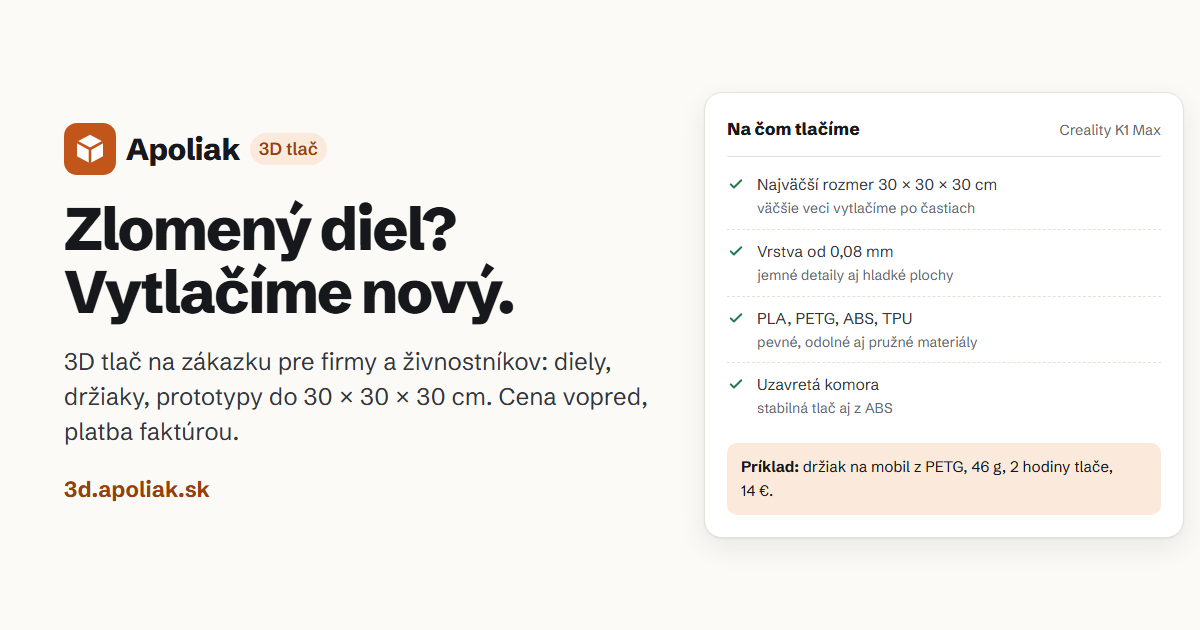
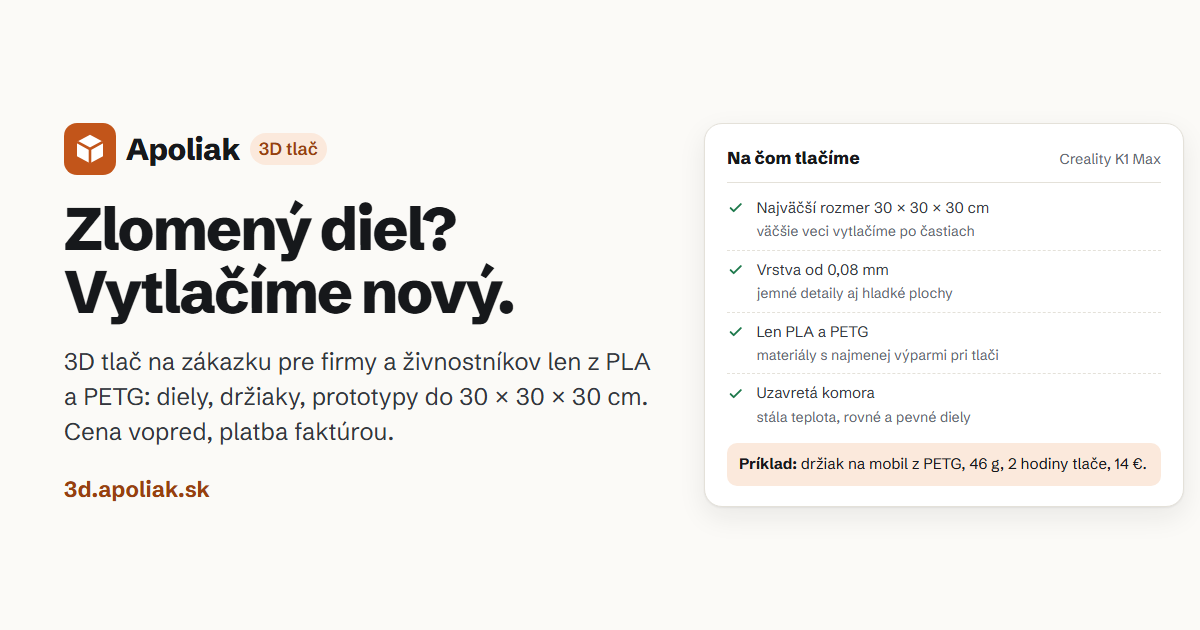
Pätička so živnosťou, úpravy textov

diff --git a/index.html b/index.html
@@ -6,7 +6,7 @@
   <meta name="referrer" content="strict-origin-when-cross-origin">
   <meta name="viewport" content="width=device-width, initial-scale=1, viewport-fit=cover">
   <title>3D tlač na zákazku pre firmy: diely, držiaky, prototypy | Apoliak 3D</title>
-  <meta name="description" content="Vytlačíme náhradné diely, držiaky, kryty a prototypy z PLA, PETG, ABS aj pružného TPU, do veľkosti 30 × 30 × 30 cm. Cenu povieme vopred, platíte faktúrou.">
+  <meta name="description" content="Vytlačíme náhradné diely, držiaky, kryty a prototypy, len zo zdravších materiálov PLA a PETG, do veľkosti 30 × 30 × 30 cm. Cenu povieme vopred, platíte faktúrou.">
   <meta name="theme-color" content="#fbfaf7">
   <meta name="color-scheme" content="light">
   <link rel="canonical" href="https://3d.apoliak.sk/">
@@ -14,7 +14,7 @@
   <meta property="og:locale" content="sk_SK">
   <meta property="og:site_name" content="Apoliak 3D">
   <meta property="og:title" content="Zlomený diel? Vytlačíme nový.">
-  <meta property="og:description" content="3D tlač na zákazku pre firmy a živnostníkov: diely, držiaky, prototypy do 30 × 30 × 30 cm. Cena vopred, platba faktúrou.">
+  <meta property="og:description" content="3D tlač na zákazku pre firmy a živnostníkov len z PLA a PETG: diely, držiaky, prototypy do 30 × 30 × 30 cm. Cena vopred, platba faktúrou.">
   <meta property="og:url" content="https://3d.apoliak.sk/">
   <meta property="og:image" content="https://3d.apoliak.sk/assets/img/og-image.png">
   <meta property="og:image:width" content="1200">
@@ -63,34 +63,34 @@
           <h1>Zlomený diel, chýbajúci držiak alebo prototyp? Vytlačíme ho.</h1>
           <p class="lead">Pošlete 3D model, nákres alebo fotku s&nbsp;rozmermi. Povieme cenu vopred, vytlačíme a&nbsp;odovzdáme osobne v&nbsp;Bratislave a&nbsp;okolí alebo pošleme zásielkou.</p>
           <div class="cta-row"><a class="btn" href="mailto:3d@apoliak.sk?subject=Dopyt%20na%203D%20tla%C4%8D&amp;body=Dobr%C3%BD%20de%C5%88%2C%0A%0Apotrebujeme%20vytla%C4%8Di%C5%A5%3A%0A%0APo%C4%8Det%20kusov%3A%0AMateri%C3%A1l%20alebo%20pou%C5%BEitie%20%28ak%20viete%29%3A%0ATerm%C3%ADn%3A%0A%0AV%20pr%C3%ADlohe%20posielam%20model%2C%20n%C3%A1kres%20alebo%20fotky%20s%20rozmermi.%0A%0AFirma%3A%0AI%C4%8CO%3A%0ATelef%C3%B3n%3A%0A%0A%C4%8Eakujem">Poslať dopyt</a><a class="btn btn--ghost" href="#cennik">Cenník</a></div>
-          <ul class="facts"><li><svg class="icon" aria-hidden="true"><use href="#i-check"/></svg>Do 30 × 30 × 30&nbsp;cm</li><li><svg class="icon" aria-hidden="true"><use href="#i-check"/></svg>Cena vopred</li><li><svg class="icon" aria-hidden="true"><use href="#i-check"/></svg>Platba faktúrou po odovzdaní</li></ul>
+          <ul class="facts"><li><svg class="icon" aria-hidden="true"><use href="#i-check"/></svg>Len zdravšie materiály PLA a&nbsp;PETG</li><li><svg class="icon" aria-hidden="true"><use href="#i-check"/></svg>Do 30 × 30 × 30&nbsp;cm</li><li><svg class="icon" aria-hidden="true"><use href="#i-check"/></svg>Cena vopred, platba faktúrou</li></ul>
         </div>
         <div><div class="panel" role="img" aria-label="Parametre 3D tlače">
             <div class="panel-head"><span class="panel-title">Na čom tlačíme</span><span class="panel-sub">Creality K1 Max</span></div>
             <ul class="rows">
               <li class="is-ok"><svg class="icon" aria-hidden="true"><use href="#i-check"/></svg><div>Najväčší rozmer 30&nbsp;×&nbsp;30&nbsp;×&nbsp;30&nbsp;cm<small>väčšie veci vytlačíme po častiach</small></div></li>
               <li class="is-ok"><svg class="icon" aria-hidden="true"><use href="#i-check"/></svg><div>Vrstva od 0,08&nbsp;mm<small>jemné detaily aj hladké plochy</small></div></li>
-              <li class="is-ok"><svg class="icon" aria-hidden="true"><use href="#i-check"/></svg><div>PLA, PETG, ABS, TPU<small>pevné, odolné aj pružné materiály</small></div></li>
-              <li class="is-ok"><svg class="icon" aria-hidden="true"><use href="#i-check"/></svg><div>Uzavretá komora<small>stabilná tlač aj z&nbsp;ABS</small></div></li>
+              <li class="is-ok"><svg class="icon" aria-hidden="true"><use href="#i-check"/></svg><div>Len PLA a PETG<small>materiály s&nbsp;najmenej výparmi pri tlači</small></div></li>
+              <li class="is-ok"><svg class="icon" aria-hidden="true"><use href="#i-check"/></svg><div>Uzavretá komora<small>stála teplota, rovné a&nbsp;pevné diely</small></div></li>
             </ul>
             <div class="panel-foot"><strong>Príklad:</strong> držiak na mobil z&nbsp;PETG, 46&nbsp;g, 2&nbsp;hodiny tlače, 14&nbsp;€.</div>
           </div></div>
       </div>
     </section>
     <section class="section" id="co" aria-labelledby="co-nadpis">
-      <div class="wrap"><div class="section-head"><h2 id="co-nadpis">Čo najčastejšie tlačíme</h2><p>Veci, ktoré sa nedajú kúpiť, alebo by ste na ne čakali týždne.</p></div><div class="cards cards--4"><article class="card"><h3>Náhradné diely</h3><p>Zlomený klip, krytka, koliesko, úchytka či gombík. Podľa pôvodného dielu navrhneme a&nbsp;vytlačíme nový.</p></article><article class="card"><h3>Držiaky a&nbsp;organizéry</h3><p>Na náradie, káble, tablety, displeje, do dielne aj do auta. Presne na vaše rozmery.</p></article><article class="card"><h3>Prototypy</h3><p>Overíte tvar a&nbsp;rozmery skôr, ako zadáte drahú výrobu. Upravenú verziu vytlačíme aj na druhý deň.</p></article><article class="card"><h3>Kusy s&nbsp;logom</h3><p>Stojany na vizitky, menovky, kľúčenky a&nbsp;darčeky pre klientov s&nbsp;vaším logom.</p></article></div></div>
+      <div class="wrap"><div class="section-head"><h2 id="co-nadpis">Čo najčastejšie tlačíme</h2><p>Veci, ktoré sa nedajú kúpiť, alebo by ste na ne čakali týždne.</p></div><div class="cards cards--4"><article class="card"><h3>Náhradné diely</h3><p>Zlomený klip, krytka, koliesko, úchytka či gombík. Podľa pôvodného dielu navrhneme a&nbsp;vytlačíme nový.</p></article><article class="card"><h3>Držiaky a&nbsp;organizéry</h3><p>Na náradie, káble, tablety, displeje, do dielne aj do kancelárie. Presne na vaše rozmery.</p></article><article class="card"><h3>Prototypy</h3><p>Overíte tvar a&nbsp;rozmery skôr, ako zadáte drahú výrobu. Upravenú verziu vytlačíme aj na druhý deň.</p></article><article class="card"><h3>Kusy s&nbsp;logom</h3><p>Stojany na vizitky, menovky, kľúčenky a&nbsp;darčeky pre klientov s&nbsp;vaším logom.</p></article></div></div>
     </section>
     <section class="section section--alt" id="materialy" aria-labelledby="materialy-nadpis">
-      <div class="wrap"><div class="section-head"><h2 id="materialy-nadpis">Materiály</h2><p>Materiál vyberieme podľa toho, kde bude diel slúžiť.</p></div><div class="cards cards--4"><article class="card"><h3>PLA</h3><p>Na bežné veci do interiéru: držiaky, kryty, modely, darčeky. Najlacnejší a&nbsp;s&nbsp;najväčším výberom farieb. Mäkne nad 55&nbsp;°C.</p></article><article class="card"><h3>PETG</h3><p>Odolnejší a&nbsp;pružnejší než PLA, znesie vlhko aj pobyt vonku. Na diely, ktoré niečo vydržia.</p></article><article class="card"><h3>ABS</h3><p>Do tepla: do auta, k&nbsp;strojom, do dielne. Tvrdý a&nbsp;odolný, v&nbsp;lete v&nbsp;aute sa nezdeformuje.</p></article><article class="card"><h3>TPU</h3><p>Pružný ako guma: tesnenia, nárazníky, protišmykové podložky, puzdrá.</p></article></div><div class="callout"><svg class="icon" aria-hidden="true"><use href="#i-warn"/></svg><div><h3>Na čo 3D tlač nepoužívame</h3><p>Netlačíme diely, od ktorých závisí bezpečnosť ľudí, napríklad časti bŕzd, nosné prvky či ochranné pomôcky, ani diely do styku s&nbsp;potravinami. Pri takých veciach odporučíme inú výrobu.</p></div></div></div>
+      <div class="wrap"><div class="section-head"><h2 id="materialy-nadpis">Tlačíme len zo zdravších materiálov</h2><p>Používame iba PLA a&nbsp;PETG. Pri tlači uvoľňujú najmenej výparov zo všetkých bežných materiálov, takže diel s&nbsp;pokojom položíte na stôl v&nbsp;kancelárii aj v&nbsp;dielni.</p></div><div class="cards"><article class="card"><h3>PLA</h3><p>Vyrába sa z&nbsp;rastlinného škrobu, napríklad z&nbsp;kukurice. Na bežné veci do interiéru: držiaky, kryty, modely, darčeky. Má najväčší výber farieb a&nbsp;mäkne nad 55&nbsp;°C.</p></article><article class="card"><h3>PETG</h3><p>Príbuzný materiálu PET, z&nbsp;ktorého sú fľaše. Odolnejší a&nbsp;pružnejší než PLA, znesie vlhko, pobyt vonku aj teplo do zhruba 70&nbsp;°C.</p></article><article class="card"><h3>ABS ani ASA netlačíme</h3><p>Pri ich tlači uniká styrén a&nbsp;jemné častice, ktoré do vzduchu, čo dýchame, nepatria. Diel do vyšších teplôt vyriešime z&nbsp;PETG alebo vám odporučíme inú výrobu.</p></article></div><div class="callout"><svg class="icon" aria-hidden="true"><use href="#i-warn"/></svg><div><h3>Na čo 3D tlač nepoužívame</h3><p>Netlačíme diely, od ktorých závisí bezpečnosť ľudí, napríklad časti bŕzd, nosné prvky či ochranné pomôcky, ani diely do styku s&nbsp;potravinami. Pri takých veciach odporučíme inú výrobu.</p></div></div></div>
     </section>
     <section class="section" id="cennik" aria-labelledby="cennik-nadpis">
-      <div class="wrap"><div class="section-head"><h2 id="cennik-nadpis">Cenník</h2><p>Presnú cenu povieme vopred podľa modelu. Pre predstavu:</p></div><div class="prices"><article class="price"><div class="price-name">Malý diel</div><div class="price-amount">od 12&nbsp;€ <span class="price-unit">za kus</span></div><p class="price-note">do 50&nbsp;g, napríklad klip, krytka, držiak</p><ul class="checks"><li><svg class="icon" aria-hidden="true"><use href="#i-check"/></svg><span>Tlač z&nbsp;PLA alebo PETG</span></li><li><svg class="icon" aria-hidden="true"><use href="#i-check"/></svg><span>Odstránenie podpier a&nbsp;začistenie</span></li><li><svg class="icon" aria-hidden="true"><use href="#i-check"/></svg><span>Hotové spravidla do 3&nbsp;pracovných dní</span></li></ul><a class="btn btn--ghost" href="mailto:3d@apoliak.sk?subject=Dopyt%20na%203D%20tla%C4%8D&amp;body=Dobr%C3%BD%20de%C5%88%2C%0A%0Apotrebujeme%20vytla%C4%8Di%C5%A5%3A%0A%0APo%C4%8Det%20kusov%3A%0AMateri%C3%A1l%20alebo%20pou%C5%BEitie%20%28ak%20viete%29%3A%0ATerm%C3%ADn%3A%0A%0AV%20pr%C3%ADlohe%20posielam%20model%2C%20n%C3%A1kres%20alebo%20fotky%20s%20rozmermi.%0A%0AFirma%3A%0AI%C4%8CO%3A%0ATelef%C3%B3n%3A%0A%0A%C4%8Eakujem">Poslať dopyt</a></article><article class="price price--main"><div class="price-name">Väčší diel</div><div class="price-amount">od 25&nbsp;€ <span class="price-unit">za kus</span></div><p class="price-note">do 200&nbsp;g, napríklad kryt, organizér, model</p><ul class="checks"><li><svg class="icon" aria-hidden="true"><use href="#i-check"/></svg><span>Všetky materiály vrátane ABS a&nbsp;TPU</span></li><li><svg class="icon" aria-hidden="true"><use href="#i-check"/></svg><span>Skúšobný kus pri presných dieloch</span></li><li><svg class="icon" aria-hidden="true"><use href="#i-check"/></svg><span>Hotové spravidla do 5&nbsp;pracovných dní</span></li></ul><a class="btn" href="mailto:3d@apoliak.sk?subject=Dopyt%20na%203D%20tla%C4%8D&amp;body=Dobr%C3%BD%20de%C5%88%2C%0A%0Apotrebujeme%20vytla%C4%8Di%C5%A5%3A%0A%0APo%C4%8Det%20kusov%3A%0AMateri%C3%A1l%20alebo%20pou%C5%BEitie%20%28ak%20viete%29%3A%0ATerm%C3%ADn%3A%0A%0AV%20pr%C3%ADlohe%20posielam%20model%2C%20n%C3%A1kres%20alebo%20fotky%20s%20rozmermi.%0A%0AFirma%3A%0AI%C4%8CO%3A%0ATelef%C3%B3n%3A%0A%0A%C4%8Eakujem">Poslať dopyt</a></article><article class="price"><div class="price-name">Návrh 3D modelu</div><div class="price-amount">25&nbsp;€ <span class="price-unit">za hodinu</span></div><p class="price-note">keď máte len diel, nákres alebo fotku</p><ul class="checks"><li><svg class="icon" aria-hidden="true"><use href="#i-check"/></svg><span>Model podľa pôvodného dielu alebo nákresu</span></li><li><svg class="icon" aria-hidden="true"><use href="#i-check"/></svg><span>Bežný diel zaberie hodinu až dve</span></li><li><svg class="icon" aria-hidden="true"><use href="#i-check"/></svg><span>Model dostanete aj ako súbor</span></li></ul><a class="btn btn--ghost" href="mailto:3d@apoliak.sk?subject=Dopyt%20na%203D%20tla%C4%8D&amp;body=Dobr%C3%BD%20de%C5%88%2C%0A%0Apotrebujeme%20vytla%C4%8Di%C5%A5%3A%0A%0APo%C4%8Det%20kusov%3A%0AMateri%C3%A1l%20alebo%20pou%C5%BEitie%20%28ak%20viete%29%3A%0ATerm%C3%ADn%3A%0A%0AV%20pr%C3%ADlohe%20posielam%20model%2C%20n%C3%A1kres%20alebo%20fotky%20s%20rozmermi.%0A%0AFirma%3A%0AI%C4%8CO%3A%0ATelef%C3%B3n%3A%0A%0A%C4%8Eakujem">Poslať dopyt</a></article></div><p class="prices-after">Ceny sú konečné, nie sme platiteľmi DPH. Pri sérii od 10 kusov je cena za kus nižšia. Osobne odovzdáme v&nbsp;Bratislave, Senci a&nbsp;okolí po dohode, inak pošleme zásielkou za cenu prepravcu. Platíte faktúrou po odovzdaní, pri zákazke nad 100&nbsp;€ polovicu vopred.</p></div>
+      <div class="wrap"><div class="section-head"><h2 id="cennik-nadpis">Cenník</h2><p>Presnú cenu povieme vopred podľa modelu. Pre predstavu:</p></div><div class="prices"><article class="price"><div class="price-name">Malý diel</div><div class="price-amount">od 12&nbsp;€ <span class="price-unit">za kus</span></div><p class="price-note">do 50&nbsp;g, napríklad klip, krytka, držiak</p><ul class="checks"><li><svg class="icon" aria-hidden="true"><use href="#i-check"/></svg><span>Tlač z&nbsp;PLA alebo PETG</span></li><li><svg class="icon" aria-hidden="true"><use href="#i-check"/></svg><span>Odstránenie podpier a&nbsp;začistenie</span></li><li><svg class="icon" aria-hidden="true"><use href="#i-check"/></svg><span>Hotové spravidla do 3&nbsp;pracovných dní</span></li></ul><a class="btn btn--ghost" href="mailto:3d@apoliak.sk?subject=Dopyt%20na%203D%20tla%C4%8D&amp;body=Dobr%C3%BD%20de%C5%88%2C%0A%0Apotrebujeme%20vytla%C4%8Di%C5%A5%3A%0A%0APo%C4%8Det%20kusov%3A%0AMateri%C3%A1l%20alebo%20pou%C5%BEitie%20%28ak%20viete%29%3A%0ATerm%C3%ADn%3A%0A%0AV%20pr%C3%ADlohe%20posielam%20model%2C%20n%C3%A1kres%20alebo%20fotky%20s%20rozmermi.%0A%0AFirma%3A%0AI%C4%8CO%3A%0ATelef%C3%B3n%3A%0A%0A%C4%8Eakujem">Poslať dopyt</a></article><article class="price price--main"><div class="price-name">Väčší diel</div><div class="price-amount">od 25&nbsp;€ <span class="price-unit">za kus</span></div><p class="price-note">do 200&nbsp;g, napríklad kryt, organizér, model</p><ul class="checks"><li><svg class="icon" aria-hidden="true"><use href="#i-check"/></svg><span>PLA alebo PETG podľa toho, kde bude diel slúžiť</span></li><li><svg class="icon" aria-hidden="true"><use href="#i-check"/></svg><span>Skúšobný kus pri presných dieloch</span></li><li><svg class="icon" aria-hidden="true"><use href="#i-check"/></svg><span>Hotové spravidla do 5&nbsp;pracovných dní</span></li></ul><a class="btn" href="mailto:3d@apoliak.sk?subject=Dopyt%20na%203D%20tla%C4%8D&amp;body=Dobr%C3%BD%20de%C5%88%2C%0A%0Apotrebujeme%20vytla%C4%8Di%C5%A5%3A%0A%0APo%C4%8Det%20kusov%3A%0AMateri%C3%A1l%20alebo%20pou%C5%BEitie%20%28ak%20viete%29%3A%0ATerm%C3%ADn%3A%0A%0AV%20pr%C3%ADlohe%20posielam%20model%2C%20n%C3%A1kres%20alebo%20fotky%20s%20rozmermi.%0A%0AFirma%3A%0AI%C4%8CO%3A%0ATelef%C3%B3n%3A%0A%0A%C4%8Eakujem">Poslať dopyt</a></article><article class="price"><div class="price-name">Návrh 3D modelu</div><div class="price-amount">25&nbsp;€ <span class="price-unit">za hodinu</span></div><p class="price-note">keď máte len diel, nákres alebo fotku</p><ul class="checks"><li><svg class="icon" aria-hidden="true"><use href="#i-check"/></svg><span>Model podľa pôvodného dielu alebo nákresu</span></li><li><svg class="icon" aria-hidden="true"><use href="#i-check"/></svg><span>Bežný diel zaberie hodinu až dve</span></li><li><svg class="icon" aria-hidden="true"><use href="#i-check"/></svg><span>Model dostanete aj ako súbor</span></li></ul><a class="btn btn--ghost" href="mailto:3d@apoliak.sk?subject=Dopyt%20na%203D%20tla%C4%8D&amp;body=Dobr%C3%BD%20de%C5%88%2C%0A%0Apotrebujeme%20vytla%C4%8Di%C5%A5%3A%0A%0APo%C4%8Det%20kusov%3A%0AMateri%C3%A1l%20alebo%20pou%C5%BEitie%20%28ak%20viete%29%3A%0ATerm%C3%ADn%3A%0A%0AV%20pr%C3%ADlohe%20posielam%20model%2C%20n%C3%A1kres%20alebo%20fotky%20s%20rozmermi.%0A%0AFirma%3A%0AI%C4%8CO%3A%0ATelef%C3%B3n%3A%0A%0A%C4%8Eakujem">Poslať dopyt</a></article></div><p class="prices-after">Ceny sú konečné, nie sme platiteľmi DPH. Pri sérii od 10 kusov je cena za kus nižšia. Osobne odovzdáme v&nbsp;Bratislave, Senci a&nbsp;okolí po dohode, inak pošleme zásielkou za cenu prepravcu. Platíte faktúrou po odovzdaní, pri zákazke nad 100&nbsp;€ polovicu vopred.</p></div>
     </section>
     <section class="section section--alt" id="postup" aria-labelledby="postup-nadpis">
       <div class="wrap"><div class="section-head"><h2 id="postup-nadpis">Ako to prebieha</h2></div><ol class="steps"><li><h3>Pošlete podklady</h3><p>3D model (STL, 3MF, STEP), nákres alebo fotky dielu z&nbsp;viacerých strán s&nbsp;pravítkom a&nbsp;rozmermi.</p></li><li><h3>Dostanete ponuku</h3><p>Do jedného pracovného dňa: cena, materiál, farba a&nbsp;termín.</p></li><li><h3>Vytlačíme</h3><p>Bežné diely do 3 až 5&nbsp;pracovných dní. Pri presných dieloch najprv skúšobný kus.</p></li><li><h3>Odovzdáme</h3><p>Osobne v&nbsp;Bratislave a&nbsp;okolí alebo zásielkou. Faktúru pošleme spolu s&nbsp;dielom.</p></li></ol></div>
     </section>
     <section class="section" id="otazky" aria-labelledby="otazky-nadpis">
-      <div class="wrap"><div class="section-head"><h2 id="otazky-nadpis">Časté otázky</h2></div><div class="faq"><details><summary>Nemám 3D model, len pokazený diel.</summary><div><p>Stačí. Diel odfoťte z&nbsp;viacerých strán s&nbsp;pravítkom alebo nám ho dajte a&nbsp;odmeriame ho. Model navrhneme za 25&nbsp;€ za hodinu, bežný diel zaberie hodinu až dve.</p></div></details><details><summary>Ako presné sú vytlačené diely?</summary><div><p>Zvyčajne na desatiny milimetra. Pri dieloch, ktoré musia presne zapadnúť, najprv vytlačíme skúšobný kus a&nbsp;podľa neho model doladíme.</p></div></details><details><summary>Aké veľké veci viete vytlačiť?</summary><div><p>Jeden kus do 30 × 30 × 30&nbsp;cm. Väčšie veci rozdelíme na časti a&nbsp;spojíme.</p></div></details><details><summary>Aké farby máte?</summary><div><p>Bežne čiernu, bielu, sivú a&nbsp;niekoľko ďalších farieb. Ak potrebujete konkrétny odtieň, materiál objednáme a&nbsp;termín sa predĺži o&nbsp;pár dní.</p></div></details><details><summary>Tlačíte aj pre ľudí, nielen pre firmy?</summary><div><p>Táto ponuka je pre firmy a&nbsp;živnostníkov, fakturujeme na IČO.</p></div></details><details><summary>Ako zaplatím?</summary><div><p>Faktúrou, prevodom na účet, až po odovzdaní dielu. Pri zákazke nad 100&nbsp;€ platíte polovicu vopred.</p></div></details></div></div>
+      <div class="wrap"><div class="section-head"><h2 id="otazky-nadpis">Časté otázky</h2></div><div class="faq"><details><summary>Nemám 3D model, len pokazený diel.</summary><div><p>Stačí. Diel odfoťte z&nbsp;viacerých strán s&nbsp;pravítkom alebo nám ho dajte a&nbsp;odmeriame ho. Model navrhneme za 25&nbsp;€ za hodinu, bežný diel zaberie hodinu až dve.</p></div></details><details><summary>Ako presné sú vytlačené diely?</summary><div><p>Zvyčajne na desatiny milimetra. Pri dieloch, ktoré musia presne zapadnúť, najprv vytlačíme skúšobný kus a&nbsp;podľa neho model doladíme.</p></div></details><details><summary>Prečo tlačíte len z&nbsp;PLA a&nbsp;PETG?</summary><div><p>Pretože pri tlači uvoľňujú najmenej výparov. ABS a&nbsp;ASA pri tlači púšťajú styrén, preto ich nepoužívame. Na väčšinu dielov PLA alebo PETG úplne stačí a&nbsp;diel do tepla vyriešime z&nbsp;PETG.</p></div></details><details><summary>Aké veľké veci viete vytlačiť?</summary><div><p>Jeden kus do 30 × 30 × 30&nbsp;cm. Väčšie veci rozdelíme na časti a&nbsp;spojíme.</p></div></details><details><summary>Aké farby máte?</summary><div><p>Bežne čiernu, bielu, sivú a&nbsp;niekoľko ďalších farieb. Ak potrebujete konkrétny odtieň, materiál objednáme a&nbsp;termín sa predĺži o&nbsp;pár dní.</p></div></details><details><summary>Tlačíte aj pre ľudí, nielen pre firmy?</summary><div><p>Táto ponuka je pre firmy a&nbsp;živnostníkov, fakturujeme na IČO.</p></div></details><details><summary>Ako zaplatím?</summary><div><p>Faktúrou, prevodom na účet, až po odovzdaní dielu. Pri zákazke nad 100&nbsp;€ platíte polovicu vopred.</p></div></details></div></div>
     </section>
     <section class="section section--alt" id="kontakt" aria-labelledby="kontakt-nadpis">
       <div class="wrap contact">
@@ -112,7 +112,8 @@
   <footer class="site-footer">
     <div class="wrap footer-grid">
       <div>
-        <p>© <span data-year>2026</span> Apoliak, Bratislava. IČO 57&nbsp;990&nbsp;883. Nie sme platiteľmi DPH.</p>
+        <p>© <span data-year>2026</span> Apoliak</p>
+        <p>Apoliak, podnikajúca fyzická osoba pôsobiaca v&nbsp;Bratislave, IČO 57&nbsp;990&nbsp;883, zapísaná v&nbsp;živnostenskom registri Okresného úradu Senec, č. 140-39176. Nie sme platiteľmi DPH.</p>
         <p><a href="mailto:3d@apoliak.sk">3d@apoliak.sk</a> · <a href="tel:+421902464022">0902 464 022</a></p>
         <p><a href="obchodne-podmienky.html">Obchodné podmienky</a> · <a href="ochrana-osobnych-udajov.html">Ochrana osobných údajov</a></p>
         

diff --git a/obchodne-podmienky.html b/obchodne-podmienky.html
@@ -39,7 +39,7 @@
       <h2>2. Dopyt a uzavretie zmluvy</h2><ol><li>Záujemca môže poskytovateľa kontaktovať <span class="nb">e-mailom</span> alebo telefonicky. Dopyt je nezáväzný, nie je objednávkou.</li><li>Zmluva je uzavretá, keď poskytovateľ <span class="nb">e-mailom</span> potvrdí rozsah služby, cenu a&nbsp;termín (ďalej len „potvrdenie“) a&nbsp;objednávateľ s&nbsp;ním súhlasí odpoveďou na <span class="nb">e-mail</span> alebo zaplatením ceny.</li><li>Objednávateľ oznámi fakturačné údaje: obchodné meno, sídlo, IČO, prípadne DIČ a&nbsp;IČ DPH. Poskytovateľ môže uzavretie zmluvy odmietnuť, najmä ak IČO nie je možné overiť vo verejnom registri alebo nezodpovedá uvedenému obchodnému menu.</li><li>Zmluva sa uzatvára v&nbsp;slovenskom jazyku. Potvrdenie a&nbsp;faktúru poskytovateľ uchováva v&nbsp;elektronickej podobe a&nbsp;na požiadanie ich objednávateľovi sprístupní. Tieto podmienky si objednávateľ môže uložiť alebo vytlačiť.</li></ol>
       <h2>3. Cena a platba</h2><ol><li>Cenu poskytovateľ uvedie v&nbsp;potvrdení podľa rozsahu, materiálu a&nbsp;času tlače. Orientačné ceny na tejto webovej stránke sú len informatívne. Návrh alebo úpravu 3D modelu poskytovateľ účtuje 25&nbsp;€ za každú začatú hodinu práce, ak sa strany nedohodnú inak. Poskytovateľ nie je platiteľom DPH, ceny sú konečné.</li><li>Cenu platí objednávateľ po odovzdaní, bankovým prevodom na základe faktúry so splatnosťou 7&nbsp;dní. Pri zákazke nad 100&nbsp;€ platí objednávateľ polovicu ceny vopred ako zálohu.</li><li>Náklady na prepravu zásielkou platí objednávateľ podľa cenníka prepravcu; poskytovateľ ich uvedie v&nbsp;potvrdení.</li></ol>
       <h2>4. Podklady a&nbsp;práva k&nbsp;modelom</h2><ol><li>Objednávateľ dodá 3D model, nákres, vzor alebo fotky s&nbsp;rozmermi. Za správnosť rozmerov a&nbsp;údajov, ktoré dodal, zodpovedá objednávateľ.</li><li>Objednávateľ zodpovedá za to, že zhotovením výrobku podľa jeho podkladov neporušuje práva tretích osôb, najmä autorské práva, práva k&nbsp;dizajnu, patenty a&nbsp;ochranné známky.</li><li>Poskytovateľ môže zákazku odmietnuť, najmä ak by výrobok mohol porušiť práva tretích osôb alebo ohroziť bezpečnosť osôb.</li><li>3D model, ktorý poskytovateľ navrhol, odovzdá objednávateľovi po zaplatení ceny aj ako súbor. Objednávateľ ho môže používať na vlastné účely a&nbsp;na výrobu ďalších kusov pre seba.</li></ol>
-      <h2>5. Vlastnosti výrobkov</h2><ol><li>Výrobky zhotovené 3D tlačou majú viditeľné vrstvy a&nbsp;rozmerovú odchýlku spravidla do niekoľkých desatín milimetra. Pri dieloch, ktoré musia presne zapadnúť, poskytovateľ odporučí skúšobný kus.</li><li>Vlastnosti materiálu, napríklad pevnosť a&nbsp;odolnosť voči teplu, vode a&nbsp;UV žiareniu, poskytovateľ opíše v&nbsp;potvrdení. Vhodnosť výrobku na zamýšľaný účel posúdi objednávateľ.</li><li>Výrobky nie sú určené na použitie, od ktorého závisí bezpečnosť osôb, ani do styku s&nbsp;potravinami, ak sa strany písomne nedohodnú inak.</li></ol>
+      <h2>5. Vlastnosti výrobkov</h2><ol><li>Poskytovateľ tlačí výlučne z&nbsp;materiálov PLA a&nbsp;PETG. Výrobky zhotovené 3D tlačou majú viditeľné vrstvy a&nbsp;rozmerovú odchýlku spravidla do niekoľkých desatín milimetra. Pri dieloch, ktoré musia presne zapadnúť, poskytovateľ odporučí skúšobný kus.</li><li>Vlastnosti materiálu, napríklad pevnosť a&nbsp;odolnosť voči teplu, vode a&nbsp;UV žiareniu, poskytovateľ opíše v&nbsp;potvrdení. Vhodnosť výrobku na zamýšľaný účel posúdi objednávateľ.</li><li>Výrobky nie sú určené na použitie, od ktorého závisí bezpečnosť osôb, ani do styku s&nbsp;potravinami, ak sa strany písomne nedohodnú inak.</li></ol>
       <h2>6. Odovzdanie</h2><ol><li>Poskytovateľ odovzdá výrobky osobne v&nbsp;Bratislave a&nbsp;okolí na dohodnutom mieste alebo ich pošle zásielkou na adresu objednávateľa.</li><li>Nebezpečenstvo škody na výrobkoch prechádza na objednávateľa ich prevzatím, pri zásielke odovzdaním prepravcovi.</li><li>Objednávateľ výrobky pri prevzatí skontroluje a&nbsp;zjavné vady oznámi do 5&nbsp;pracovných dní od prevzatia.</li></ol>
       <h2>7. Mlčanlivosť a osobné údaje</h2><ol><li>Poskytovateľ zachováva mlčanlivosť o&nbsp;skutočnostiach, ktoré sa dozvedel pri poskytovaní služby.</li><li>Pri zásielke poskytovateľ odovzdá prepravcovi meno, adresu a&nbsp;telefón príjemcu v&nbsp;rozsahu potrebnom na doručenie.</li><li>Spracúvanie osobných údajov objednávateľa a&nbsp;jeho kontaktných osôb popisujú <a href="ochrana-osobnych-udajov.html">zásady ochrany osobných údajov</a>.</li></ol>
       <h2>8. Zodpovednosť a reklamácie</h2><ol><li>Zodpovednosť poskytovateľa za vady sa riadi Obchodným zákonníkom.</li><li>Vady oznámi objednávateľ <span class="nb">e-mailom</span> na <a href="mailto:3d@apoliak.sk">3d@apoliak.sk</a> bez zbytočného odkladu po ich zistení, s&nbsp;popisom vady. Poskytovateľ vadný výrobok bezplatne opraví alebo vytlačí znova najneskôr do 14&nbsp;dní. Ak to nie je možné, primerane zníži cenu alebo ju vráti.</li><li>Poskytovateľ nezodpovedá za vady spôsobené nesprávnymi rozmermi alebo podkladmi od objednávateľa ani za použitie výrobku v&nbsp;rozpore s&nbsp;bodom 5.3.</li></ol>
@@ -50,7 +50,8 @@
   <footer class="site-footer">
     <div class="wrap footer-grid">
       <div>
-        <p>© <span data-year>2026</span> Apoliak, Bratislava. IČO 57&nbsp;990&nbsp;883. Nie sme platiteľmi DPH.</p>
+        <p>© <span data-year>2026</span> Apoliak</p>
+        <p>Apoliak, podnikajúca fyzická osoba pôsobiaca v&nbsp;Bratislave, IČO 57&nbsp;990&nbsp;883, zapísaná v&nbsp;živnostenskom registri Okresného úradu Senec, č. 140-39176. Nie sme platiteľmi DPH.</p>
         <p><a href="mailto:3d@apoliak.sk">3d@apoliak.sk</a> · <a href="tel:+421902464022">0902 464 022</a></p>
         <p><a href="obchodne-podmienky.html">Obchodné podmienky</a> · <a href="ochrana-osobnych-udajov.html">Ochrana osobných údajov</a></p>
         

diff --git a/assets/css/style.css b/assets/css/style.css
@@ -119,6 +119,11 @@ strong { color: var(--ink); }
 .rows small { display: block; color: var(--muted); font-size: .88rem; }
 .panel-foot { margin-top: 14px; padding: 12px 14px; border-radius: 10px; background: var(--accent-soft); color: var(--ink); font-size: .95rem; }
 
+/* XML → čitateľná faktúra (efaktury) */
+.xml { margin: 12px 0 0; padding: 12px 14px; background: #1b1f24; color: #c9d4e3; border-radius: 10px; font: 12.5px/1.55 ui-monospace, "Cascadia Mono", Consolas, monospace; white-space: pre-wrap; overflow-wrap: anywhere; }
+.arrow { display: flex; align-items: center; gap: 10px; margin: 14px 0 2px; color: var(--accent-ink); font-weight: 800; font-size: .95rem; }
+.arrow::before, .arrow::after { content: ""; flex: 1; height: 1px; background: var(--line-2); }
+
 /* ---------- sekcie ---------- */
 .section { padding: 72px 0; }
 .section--alt { background: var(--paper-2); border-top: 1px solid var(--line); border-bottom: 1px solid var(--line); }
@@ -130,6 +135,11 @@ strong { color: var(--ink); }
 .cards--4 { grid-template-columns: repeat(4, minmax(0, 1fr)); }
 .card { background: var(--white); border: 1px solid var(--line); border-radius: var(--radius); padding: 24px; }
 .card p:last-child { margin-bottom: 0; }
+.card--big { padding: 30px; display: flex; flex-direction: column; }
+.card--big h3 { font-size: 1.45rem; }
+.card--big .checks { margin: 16px 0 20px; }
+.card-price { margin: auto 0 0; padding-top: 16px; border-top: 1px solid var(--line); color: var(--muted); }
+.card-price strong { font-size: 1.3rem; }
 .card-num { display: inline-grid; place-items: center; width: 38px; height: 38px; border-radius: 10px; background: var(--accent-soft); color: var(--accent-ink); font-weight: 800; margin-bottom: 14px; }
 
 .steps { list-style: none; counter-reset: krok; padding: 0; margin: 0; display: grid; grid-template-columns: repeat(4, minmax(0, 1fr)); gap: 20px; }

diff --git a/ochrana-osobnych-udajov.html b/ochrana-osobnych-udajov.html
@@ -49,7 +49,8 @@
   <footer class="site-footer">
     <div class="wrap footer-grid">
       <div>
-        <p>© <span data-year>2026</span> Apoliak, Bratislava. IČO 57&nbsp;990&nbsp;883. Nie sme platiteľmi DPH.</p>
+        <p>© <span data-year>2026</span> Apoliak</p>
+        <p>Apoliak, podnikajúca fyzická osoba pôsobiaca v&nbsp;Bratislave, IČO 57&nbsp;990&nbsp;883, zapísaná v&nbsp;živnostenskom registri Okresného úradu Senec, č. 140-39176. Nie sme platiteľmi DPH.</p>
         <p><a href="mailto:3d@apoliak.sk">3d@apoliak.sk</a> · <a href="tel:+421902464022">0902 464 022</a></p>
         <p><a href="obchodne-podmienky.html">Obchodné podmienky</a> · <a href="ochrana-osobnych-udajov.html">Ochrana osobných údajov</a></p>
         

diff --git a/assets/js/main.js b/assets/js/main.js
@@ -3,3 +3,13 @@
 document.querySelectorAll("[data-year]").forEach(function (el) {
   el.textContent = String(new Date().getFullYear());
 });
+
+// Odpočet do dátumu v data-odpocet (e-faktúry od 1. 1. 2027). Po dátume ostane pôvodný text zo stránky.
+document.querySelectorAll("[data-odpocet]").forEach(function (el) {
+  var ciel = new Date(el.getAttribute("data-odpocet") + "T00:00:00");
+  var dni = Math.ceil((ciel - new Date()) / 86400000);
+  if (!(dni > 0)) return;
+  var slovo = dni === 1 ? "deň" : (dni <= 4 ? "dni" : "dní");
+  var sloveso = dni >= 2 && dni <= 4 ? "zostávajú" : "zostáva";
+  el.textContent = "Do povinných e-faktúr " + sloveso + " " + dni + " " + slovo;
+});

diff --git a/404.html b/404.html
@@ -42,7 +42,8 @@
   <footer class="site-footer">
     <div class="wrap footer-grid">
       <div>
-        <p>© <span data-year>2026</span> Apoliak, Bratislava. IČO 57&nbsp;990&nbsp;883. Nie sme platiteľmi DPH.</p>
+        <p>© <span data-year>2026</span> Apoliak</p>
+        <p>Apoliak, podnikajúca fyzická osoba pôsobiaca v&nbsp;Bratislave, IČO 57&nbsp;990&nbsp;883, zapísaná v&nbsp;živnostenskom registri Okresného úradu Senec, č. 140-39176. Nie sme platiteľmi DPH.</p>
         <p><a href="mailto:3d@apoliak.sk">3d@apoliak.sk</a> · <a href="tel:+421902464022">0902 464 022</a></p>
         <p><a href="/">Späť na úvod</a></p>
         
